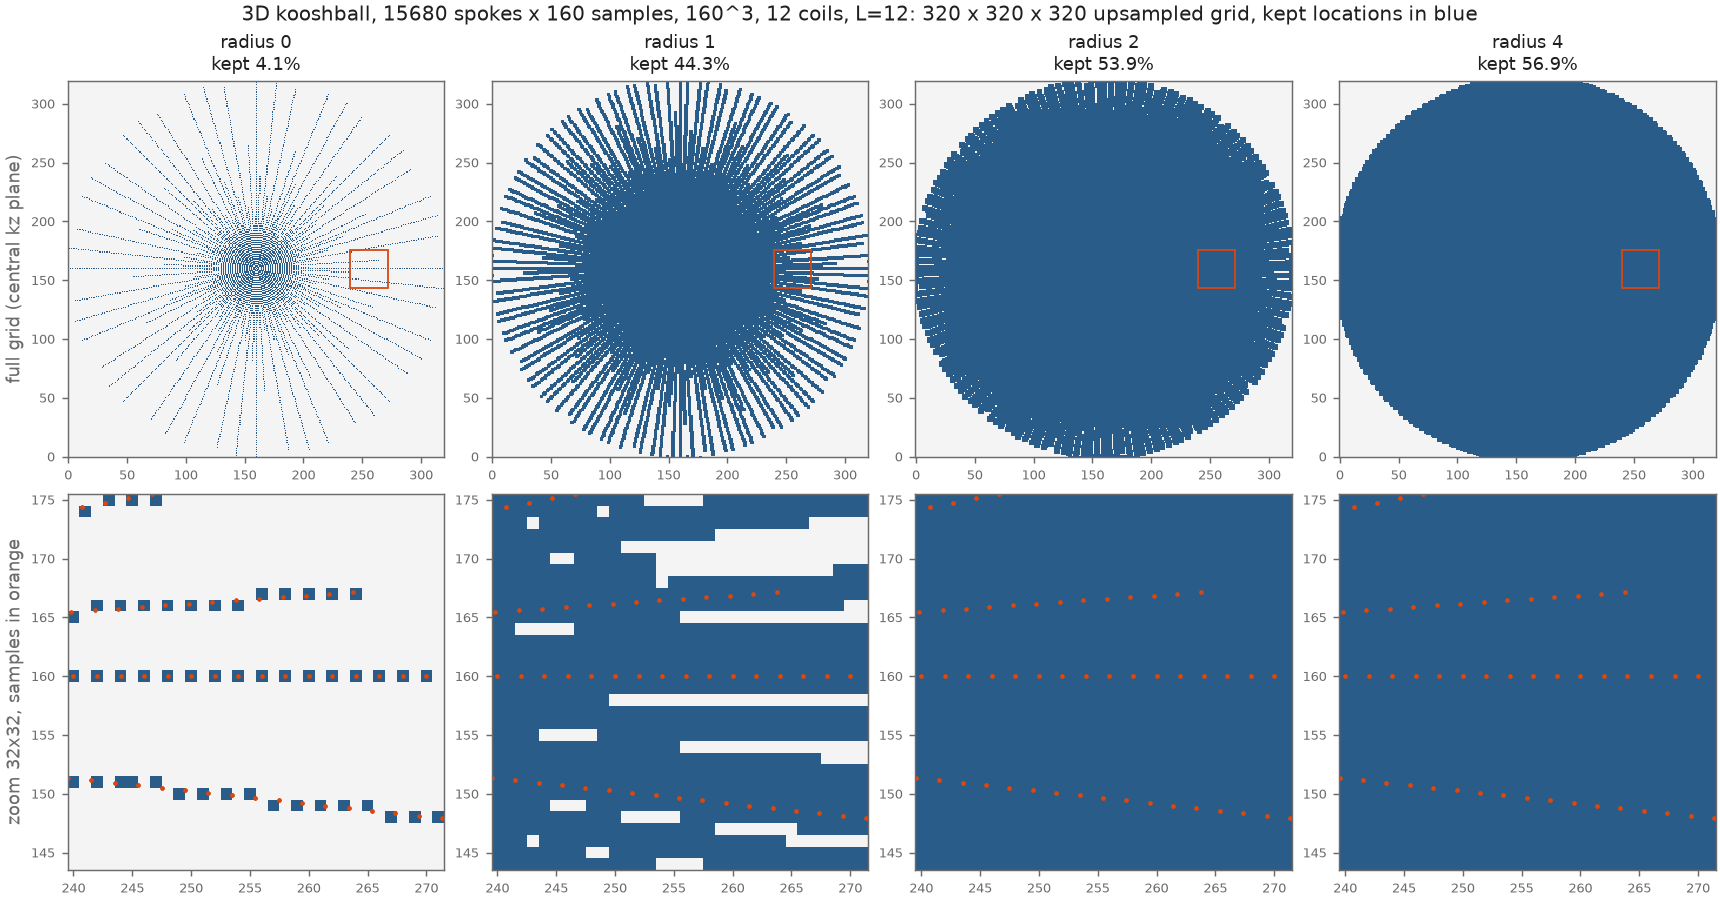
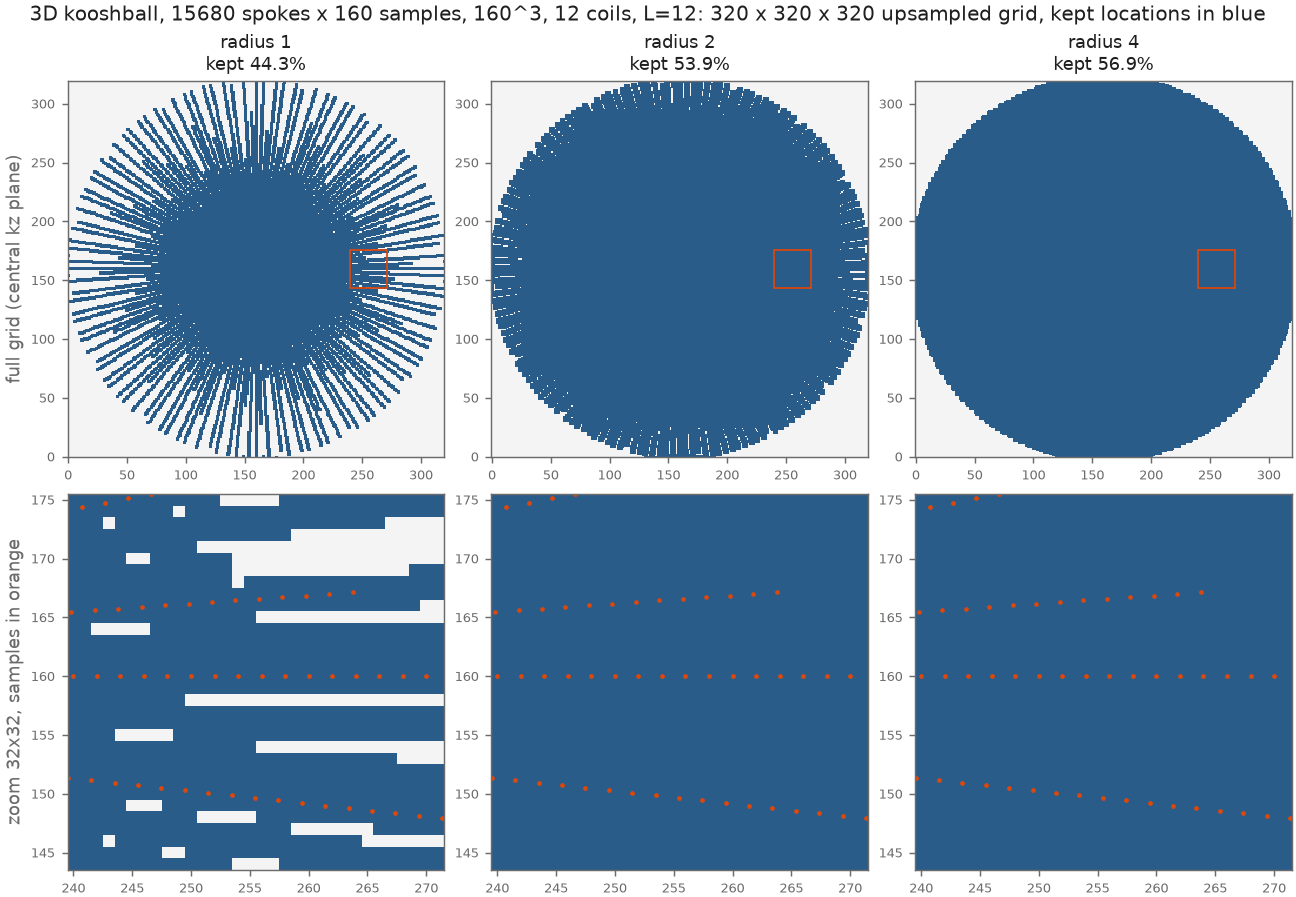
Docs: trim the upsampfac study, drop radius 0 and the upgrade note
* upsampfac.md: keeps the settings that compute the kernel faster
  (looser eps and sigma = 1.25 in 3D, GM-sort in 2D and stack) and the
  default rows they are compared with.
* neighbour-mask.md: radius 0 removed from the text, the tables and the
  four figures (the radius 0 column is cropped out of the images).
* conventions.md: the note on upgrading from earlier versions removed.

diff --git a/source/benchmarks/upsampfac.md b/source/benchmarks/upsampfac.md
@@ -1,83 +1,46 @@
 # Experimental: NUFFT upsampling factor in `calc_toep`
 
 `calc_toep` runs its type-1 transforms at cufinufft's standard upsampling factor σ = 2. Two
-experimental environment variables change that: `MR_AHA_TOEP_UPSAMPFAC` (σ, default 2.0) and
-`MR_AHA_TOEP_GPU_METHOD` (type-1 spreading method, default 0 = cufinufft's choice).
+experimental environment variables change that:
 
-> **Outcome.** The defaults (σ = 2, cufinufft's choice of method) are the recommended settings on
-> both backends. One combination is faster on CUDA: for the 3D kooshball, σ = 1.25 at
-> `eps = 1e-4` computes the kernel 1.7× faster than σ = 2 at `eps = 1e-5`, at a similar error.
+* `MR_AHA_TOEP_UPSAMPFAC` sets σ (default 2.0; the other supported value is 1.25);
+* `MR_AHA_TOEP_GPU_METHOD` (CUDA only) sets the type-1 spreading method (default 0 = cufinufft's
+  choice, 1 = GM-sort).
 
-## CUDA
+σ only sizes the NUFFT's fine grid; the Toeplitz grid `phi2_dim` is unchanged.
 
-[`toep_upsampfac.py`](https://github.com/mikecjz/MR_AHA/blob/b4fb00c/benchmarks/toep_upsampfac.py)
-sweeps σ ∈ {2, 1.25}, `eps` ∈ {1e-6, 1e-5, 1e-4} and method ∈ {auto, 1 = GM-sort} on one TITAN
-RTX (`pact400-recon3`).
+## Outcome
 
+The defaults (σ = 2, cufinufft's choice of method) are the recommended settings on both backends.
+Three settings compute the kernel faster on CUDA:
+
+* **A looser `eps` in 3D.** At `eps = 1e-5` the 3D kernel takes 12.6 s instead of 18.0 s, with an
+  operator error of 3.3·10⁻⁶.
+* **σ = 1.25 with `eps = 1e-4` in 3D.** The kernel takes 7.2 s, 1.7× faster than σ = 2 at
+  `eps = 1e-5`, at a similar error (4.8·10⁻⁶). The kernel width that cufinufft picks for
+  σ = 1.25 is conservative, so the result is more accurate than the requested `eps`.
+* **GM-sort in 2D and stack.** It is 1.6× (2D) and 1.3× (stack) faster than cufinufft's choice at
+  the same accuracy.
+
+## Measurements
+
+| problem | σ | `eps` | method | time | error |
+|---|---|---|---|---|---|
+| 2D | 2 | 1e-6 | auto (default) | 18 ms | 9.3e-7 |
+| 2D | 2 | 1e-6 | GM-sort | 11 ms | 1.1e-6 |
+| stack | 2 | 1e-6 | auto (default) | 2.95 s | 1.2e-6 |
+| stack | 2 | 1e-6 | GM-sort | 2.28 s | 1.1e-6 |
+| 3D (masked) | 2 | 1e-6 | auto (default) | 18.0 s | 1.9e-6 |
+| 3D (masked) | 2 | 1e-5 | auto | 12.6 s | 3.3e-6 |
+| 3D (masked) | 1.25 | 1e-4 | auto | 7.2 s | 4.8e-6 |
+
+* **Machine.** One TITAN RTX (`pact400-recon3`).
 * **Time** is the kernel computation inside `create_op` (minimum of two).
 * **Error** is one $A^HA$ application against the NUFFT operator (σ = 2, `eps` = 1e-6).
-* The 3D problem uses the default mask (`calc_mask`, radius 2); 2D and stack are unmasked.
-* Raw numbers: `results/pact400-recon3/toep_upsampfac_<problem>.json`.
+* **Problems.** Those of the [main study](results.md). The 3D problem uses the default mask
+  (`calc_mask`, radius 2); 2D and stack are unmasked.
+* **Script and raw numbers.**
+  [`toep_upsampfac.py`](https://github.com/mikecjz/MR_AHA/blob/b4fb00c/benchmarks/toep_upsampfac.py);
+  `results/pact400-recon3/toep_upsampfac_<problem>.json`.
 
-Each cell gives time / error.
-
-| problem | eps | method | σ = 2 (default) | σ = 1.25 |
-|---|---|---|---|---|
-| 2D | 1e-6 | auto | 18 ms / 9.3e-7 | 21 ms / 1.7e-6 |
-| | 1e-6 | GM-sort | 11 ms / 1.1e-6 | 14 ms / 1.9e-6 |
-| | 1e-4 | GM-sort | 7 ms / 1.6e-5 | 7 ms / 5.2e-6 |
-| stack | 1e-6 | auto | 2.95 s / 1.2e-6 | 3.45 s / 2.2e-6 |
-| | 1e-6 | GM-sort | 2.28 s / 1.1e-6 | 2.55 s / 2.2e-6 |
-| | 1e-5 | GM-sort | 2.11 s / 1.4e-6 | 2.27 s / 2.1e-6 |
-| | 1e-4 | GM-sort | 1.96 s / 2.1e-5 | 1.75 s / 4.7e-6 |
-| 3D (masked) | 1e-6 | auto | 18.0 s / 1.9e-6 | 32.7 s / 2.3e-6 |
-| | 1e-5 | auto | 12.6 s / 3.3e-6 | 19.4 s / 2.9e-6 |
-| | 1e-4 | auto | 8.0 s / 1.9e-5 | 7.2 s / 4.8e-6 |
-| | 1e-6 | GM-sort | 7.0 s / 1.5e-5 | 10.2 s / 8.5e-5 |
-| | 1e-5 | GM-sort | 5.8 s / 6.0e-6 | 7.9 s / 6.1e-5 |
-| | 1e-4 | GM-sort | 5.0 s / 2.1e-5 | 4.6 s / 6.9e-5 |
-
-* **At the same `eps`, σ = 1.25 is slower (up to 1.8×).** The Toeplitz type-1 transform has
-  2N modes per axis, so the samples are dense on the fine grid and spreading, not the FFT,
-  dominates. σ = 1.25 needs a kernel about 1.4× wider for the same `eps`, i.e. about 2× (2D) to
-  3× (3D) more spreading work, which outweighs the 0.39× (2D) / 0.24× (3D) smaller FFT.
-* **At matched accuracy σ = 1.25 can win.** Its kernel width formula is more conservative, so at
-  `eps = 1e-4` it reaches about 5·10⁻⁶. For 3D (auto method) that is 7.2 s against 12.6 s for
-  σ = 2 at `eps = 1e-5` (3.3·10⁻⁶): 1.7× faster. For stack the gain is 1.2× at a 3× larger error;
-  2D gains nothing.
-* **GM-sort (method 1) trades accuracy in 3D.** It is 1.2–1.6× faster than cufinufft's choice
-  (shared memory) in 2D and stack at equal accuracy, and 2.5× faster in 3D, but there its error
-  grows 5–30× (to 10⁻⁵–10⁻⁴), probably from fp32 global atomics in dense cells.
-* **Default unchanged.** σ = 2 and cufinufft's method choice stay the defaults; the variables are
-  experimental and not part of the API.
-
-## Apple silicon
-
-Measured on an M3 Ultra (`AW650523HJY`). On Metal the kernel's type-1 NUFFT is mlx-nufft
-(`mr_aha._psf`), which reads the same `MR_AHA_TOEP_UPSAMPFAC`. There is no spreading-method
-switch. The problems and the protocol are the same: time is `calc_toep` in Python (minimum of
-two), the error is against the mlx-nufft NUFFT operator at σ = 2 and `eps` = 1e-6, and 3D is
-masked. Raw numbers: `results/AW650523HJY/toep_upsampfac_<problem>.json`.
-
-| problem | eps | σ = 2 (default) | σ = 1.25 |
-|---|---|---|---|
-| 2D | 1e-6 | 10.1 ms / 9.9e-7 | 11.6 ms / 4.2e-6 |
-| | 1e-5 | 9.8 ms / 2.8e-6 | 8.9 ms / 2.0e-6 |
-| | 1e-4 | 7.1 ms / 1.6e-5 | 7.9 ms / 6.2e-6 |
-| stack | 1e-6 | 3.50 s / 8.9e-7 | 4.73 s / 4.1e-6 |
-| | 1e-5 | 3.33 s / 2.0e-6 | 4.47 s / 2.0e-6 |
-| | 1e-4 | 3.31 s / 2.0e-5 | 3.56 s / 5.8e-6 |
-| 3D (masked) | 1e-6 | 14.1 s / 1.5e-5 | 19.2 s / 2.9e-5 |
-| | 1e-5 | 10.5 s / 2.1e-5 | 19.2 s / 2.9e-5 |
-| | 1e-4 | 8.0 s / 2.1e-5 | 14.6 s / 3.7e-5 |
-
-* **σ = 1.25 does not pay off on Metal.** It is 1.1–1.8× slower for stack and 3D at every `eps`,
-  and also at matched accuracy (stack: 3.56 s at `eps = 1e-4` against 3.33 s for σ = 2 at
-  `eps = 1e-5`); 2D is too small to matter. The CUDA gain at matched accuracy does not carry over:
-  σ = 2 already gets faster as `eps` loosens (3D: 14.1 → 8.0 s), while σ = 1.25 in 3D runs at the
-  width cap of 8 that mlx-nufft applies in fp32, so it does not get cheaper.
-* **Accuracy.** σ = 1.25 raises the operator error 2–5× at `eps = 1e-6`. The 2D
-  kernel itself differs from the CPU-finufft kernel by 2.8·10⁻⁴ at σ = 1.25 (8.9·10⁻⁷ at σ = 2;
-  CPU finufft at σ = 1.25: 8.5·10⁻⁷), so mlx-nufft's fp32 σ = 1.25 path is the limit, not the
-  switch. The 3D errors (1.5–2·10⁻⁵ even at σ = 2) are measured against mlx-nufft's own fp32 3D
-  NUFFT operator, which sits near that floor.
+The variables are experimental and not part of the API.

diff --git a/source/benchmarks/neighbour-mask.md b/source/benchmarks/neighbour-mask.md
@@ -42,10 +42,6 @@ is the unmasked Toeplitz-vs-NUFFT difference measured on the L40S in the [main s
   of the grid at 2.9·10⁻², and r = 8 still gives 3·10⁻³ at 14 % kept. Here the kernel's energy
   away from the arms lies in tails that run parallel to the kx and ky axes, and a box around each
   sample does not follow those tails.
-* **r = 0 (nearest grid point only) is never usable.** Its error is about 10⁻¹ in every problem.
-  Samples fall between grid points, so the kernel around a sample is spread over at least the
-  neighbouring cells. For radial and kooshball sampling, r = 1 already leaves gaps between spokes
-  near the edge of k-space.
 * **White noise** is harder, because it puts energy at frequencies that the mask drops. At r = 2
   its error is 4·10⁻² (spiral), 3·10⁻² (64 spokes), 8·10⁻³ (280 spokes) and 1.5·10⁻³ (kooshball).
 
@@ -63,8 +59,7 @@ share of the grid.
 3. Dilate the marks with a (2r+1)ᵈ box, so that every point within r cells of a marked point is kept
    (Chebyshev distance, periodic edges).
 
-r = 0 keeps only the nearest grid point of each sample. Note that on the 2× grid, samples along a
-radial spoke are 2 cells apart.
+On the 2× grid, samples along a radial spoke are 2 cells apart.
 
 ## Test problems
 
@@ -93,7 +88,7 @@ The "unmasked" row is the floor: the Toeplitz embedding error plus the NUFFT tol
 
 ## Results per problem
 
-Each figure shows the mask at radii 0, 1, 2 and 4. The top row is
+Each figure shows the mask at radii 1, 2 and 4. The top row is
 the full upsampled grid (for 3D, the central kz plane). The bottom row zooms in on the orange box,
 at about 60 % of k_max along +kx, with the samples in orange; for 3D only samples within half a
 cell of that plane are shown. Kept locations are blue.
@@ -104,7 +99,6 @@ cell of that plane are shown. Kept locations are blue.
 
 | mask | grid kept | image ÷ out | image ÷ in | white noise ÷ out | white noise ÷ in |
 |---|---|---|---|---|---|
-| neighbourhood r = 0 | 0.6% | 1.3·10⁻¹ | 1.4·10⁻² | 1.8·10⁻¹ | 1.8·10⁻³ |
 | neighbourhood r = 1 | 2.3% | 4.3·10⁻² | 4.5·10⁻³ | 6.0·10⁻² | 6.2·10⁻⁴ |
 | neighbourhood r = 2 | 4.0% | 2.9·10⁻² | 3.1·10⁻³ | 3.9·10⁻² | 4.0·10⁻⁴ |
 | neighbourhood r = 3 | 5.7% | 1.9·10⁻² | 2.0·10⁻³ | 2.6·10⁻² | 2.7·10⁻⁴ |
@@ -119,7 +113,6 @@ cell of that plane are shown. Kept locations are blue.
 
 | mask | grid kept | image ÷ out | image ÷ in | white noise ÷ out | white noise ÷ in |
 |---|---|---|---|---|---|
-| neighbourhood r = 0 | 9.4% | 1.4·10⁻¹ | 1.1·10⁻² | 2.8·10⁻¹ | 4.9·10⁻³ |
 | neighbourhood r = 1 | 50.7% | 2.6·10⁻³ | 2.1·10⁻⁴ | 7.9·10⁻² | 1.4·10⁻³ |
 | neighbourhood r = 2 | 73.2% | 5.3·10⁻⁴ | 4.3·10⁻⁵ | 3.2·10⁻² | 5.6·10⁻⁴ |
 | neighbourhood r = 3 | 80.2% | 1.4·10⁻⁴ | 1.1·10⁻⁵ | 1.0·10⁻² | 1.8·10⁻⁴ |
@@ -134,7 +127,6 @@ cell of that plane are shown. Kept locations are blue.
 
 | mask | grid kept | image ÷ out | image ÷ in | white noise ÷ out | white noise ÷ in |
 |---|---|---|---|---|---|
-| neighbourhood r = 0 | 19.0% | 1.2·10⁻¹ | 2.5·10⁻² | 3.2·10⁻¹ | 2.4·10⁻³ |
 | neighbourhood r = 1 | 77.1% | 2.6·10⁻⁵ | 5.6·10⁻⁶ | 4.2·10⁻² | 3.2·10⁻⁴ |
 | neighbourhood r = 2 | 79.3% | 3.3·10⁻⁶ | 7.0·10⁻⁷ | 7.7·10⁻³ | 5.9·10⁻⁵ |
 | neighbourhood r = 3 | 79.8% | 2.3·10⁻⁶ | 4.9·10⁻⁷ | 5.6·10⁻³ | 4.3·10⁻⁵ |
@@ -149,7 +141,6 @@ cell of that plane are shown. Kept locations are blue.
 
 | mask | grid kept | image ÷ out | image ÷ in | white noise ÷ out | white noise ÷ in |
 |---|---|---|---|---|---|
-| neighbourhood r = 0 | 4.1% | 1.2·10⁻¹ | 2.7·10⁻² | 1.6·10⁻¹ | 1.2·10⁻⁴ |
 | neighbourhood r = 1 | 44.3% | 2.0·10⁻⁵ | 4.4·10⁻⁶ | 1.5·10⁻² | 1.1·10⁻⁵ |
 | neighbourhood r = 2 | 53.9% | 4.3·10⁻⁶ | 9.5·10⁻⁷ | 1.5·10⁻³ | 1.1·10⁻⁶ |
 | neighbourhood r = 3 | 55.5% | 4.1·10⁻⁶ | 9.1·10⁻⁷ | 1.1·10⁻³ | 8.1·10⁻⁷ |

diff --git a/source/benchmarks/index.md b/source/benchmarks/index.md
@@ -33,9 +33,9 @@ The pages of this section record the measurements made while the library was dev
 | Study | Question |
 |---|---|
 | [Main study](results.md) | Toeplitz against NUFFT, one $A^H A$ and 20 CG iterations, on a TITAN RTX, an L40S and an Apple M3 Ultra |
-| [Neighbourhood mask](neighbour-mask.md) | how much of the grid the mask keeps and how accurate the masked operator is, for radii 0 to 8 |
+| [Neighbourhood mask](neighbour-mask.md) | how much of the grid the mask keeps and how accurate the masked operator is, for radii 1 to 8 |
 | [CUDA optimisation and multi-GPU](cuda-multigpu.md) | the default CUDA kernels against the generic ones, and scaling on several H100s |
-| [NUFFT upsampling factor](upsampfac.md) | the experimental `upsampfac` switch of `calc_toep` |
+| [NUFFT upsampling factor](upsampfac.md) | experimental NUFFT settings that compute the Toeplitz kernel faster |
 | [VkFFT on Metal](vkfft.md) | whether VkFFT's Metal backend is accurate and fast enough |
 
 ```{note}

diff --git a/source/guide/conventions.md b/source/guide/conventions.md
@@ -60,14 +60,6 @@ is passed unchanged apart from the dimension order: `permute(Phi2, [3 4 1 2])` i
 row-major `P.transpose(2, 3, 0, 1)` of the h5py array in Python (plus an `fftshift` along kz if it is
 in natural order).
 
-> **Upgrading from an earlier version.** Earlier versions multiplied $\Phi_2 v$ (column vector
-> from the left), i.e. they expected $\Phi^H\Phi$ of a time × rank basis. That is the transpose
-> (for these Hermitian blocks, the complex conjugate) of the block above. To upgrade:
->
-> * swap the two $L$ dimensions of Gram blocks prepared for those versions;
-> * recompute `phi2_toep` with `calc_toep`. A kernel computed by those versions corresponds to
->   the *other* triangulation with its entries transposed.
-
 ## Triangular packing
 
 Only $(L^2+L)/2$ of the $L^2$ entries of each block are stored; the rest follows from

diff --git a/source/guide/operations.md b/source/guide/operations.md
@@ -56,9 +56,10 @@ GPUs; see [Multi-GPU](multi-gpu.md).
 > * `MR_AHA_TOEP_GPU_METHOD` (CUDA only) sets cufinufft's spreading method: 0 = cufinufft's
 >   choice (default), 1 = GM-sort, 2 = shared memory.
 >
-> The defaults are the recommended settings. One combination is faster on CUDA: σ = 1.25 with
+> The defaults are the recommended settings. Two settings are faster on CUDA: σ = 1.25 with
 > `eps = 1e-4` computes the 3D kooshball kernel 1.7× faster than σ = 2 with `eps = 1e-5`, at a
-> similar error. These switches are for benchmarking and may change; see
+> similar error, and GM-sort is 1.3–1.6× faster for 2D and stack at the same accuracy. These
+> switches are for benchmarking and may change; see
 > [NUFFT upsampling factor](../benchmarks/upsampfac.md) for the measurements.
 
 ## `AhA_Toeplitz` — the hot loop

diff --git a/source/guide/masking.md b/source/guide/masking.md
@@ -20,4 +20,4 @@ densely sampled test problems radius 2 is as accurate as the unmasked operator:
 It is less accurate on the 377-spoke 160² radial data (80 % kept, error 5·10⁻⁵) and on sparse
 trajectories (64 spokes: 5·10⁻⁴; two-arm spiral: 3·10⁻²). There, raise `mask_radius`.
 
-[Neighbourhood mask](../benchmarks/neighbour-mask.md) has the measurements for radii 0 to 8.
+[Neighbourhood mask](../benchmarks/neighbour-mask.md) has the measurements for radii 1 to 8.
